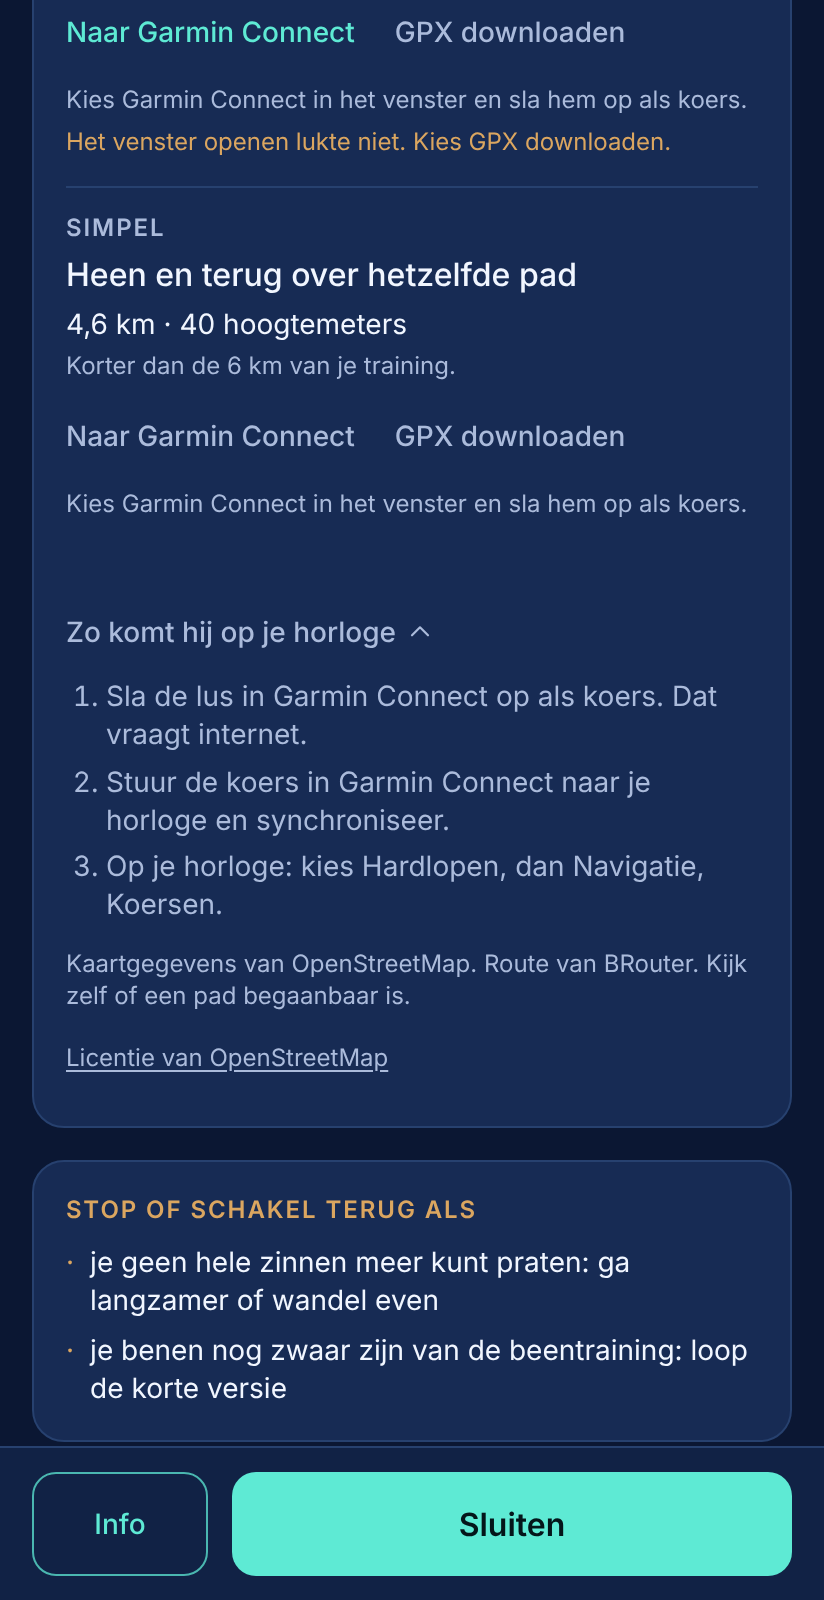
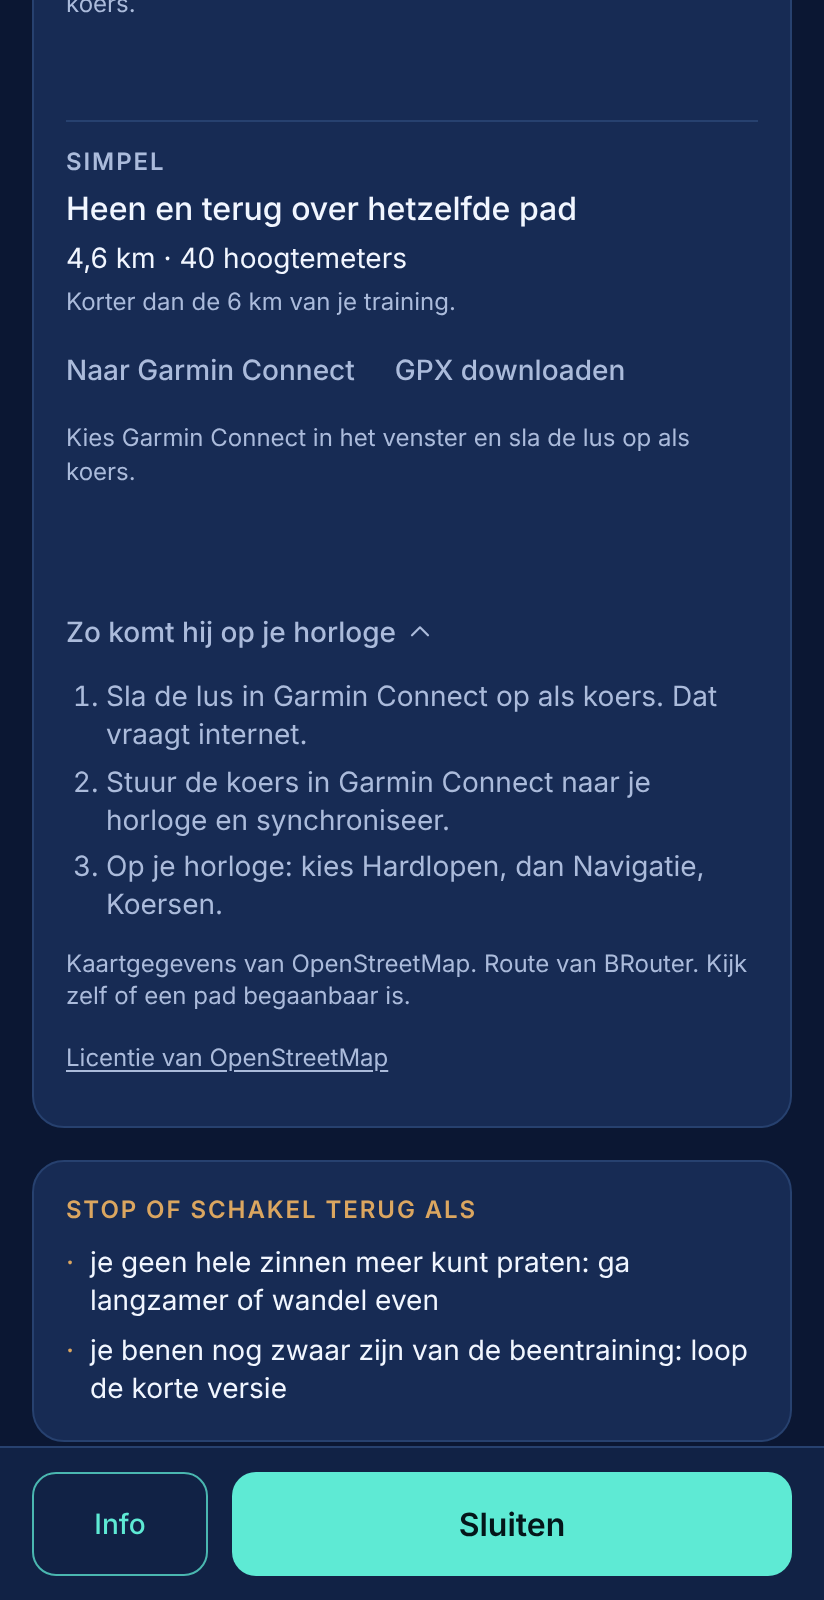
Naar Garmin Connect: afdrukken (412 px) en kostenlogboek
Claude-Session: https://claude.ai/code/session_01LnDpSjVK9hSe1mHL4RF8RK

diff --git a/.claude/kosten/logboek.md b/.claude/kosten/logboek.md
@@ -274,3 +274,7 @@ Les F3 en F4a: zet in de opdracht dat een nieuwe variant in een bestaande famili
 - 2026-11-09, Teksten Lichaam en Instellingen doorloop 360, 390 en 412 px, Lookout, sonnet (tester), 99k, 19 min, hervat na de limiet, 0, alles groen; maakte zelf een afgeleide stand voor het blad Hoe voelt je lijf
 - 2026-11-09, Teksten Lichaam en Instellingen tweede review (herstel, lijst altijd open, Akkoord-zin), Warden, fable (reviewer), 205k samen met de eerste ronde, 1 min, 0 blokkerend, akkoord; 6 klein (4 hersteld, 2 voor een volgende ronde)
 - 2026-11-09, Teksten Lichaam en Instellingen tweede meting 360 en 412 px, Lookout, sonnet (tester), 111k samen met de eerste ronde, 3 min, 0, alles groen; hergebruikte eigen scripts en stand
+- 2026-11-10, Routeplanner naar Garmin Connect (fase 3, bouwer in een eigen sessie), bouwer, fable, tokens niet door de sessie zelf te meten, ongeveer 40 min, 1 herstelronde na review zelf gedaan
+- 2026-11-10, Routeplanner naar Garmin Connect onderzoek (deelvenster of Openen met, plugins, webweergave), Scout, fable (sportwetenschapper), 47k, 2,5 min, 0, advies Openen met; bepaalde de keuze voor een eigen native deel
+- 2026-11-10, Routeplanner naar Garmin Connect review, Warden, fable (reviewer), 80k, 3 min, 0 blokkerend, 3 geel (grens stopte het openen niet, verkeerde stap bij time-out, uitweg te zwak; alle hersteld), 8 klein (6 hersteld)
+- 2026-11-10, Routeplanner naar Garmin Connect doorloop 360, 390 en 412 px, Lookout, sonnet (tester), 81k samen met de herhaling, 9 min, 1 herstel (statusregel van twee regels verschoof 15 px; hersteld en opnieuw gemeten, groen); mockte zelf BRouter en Overpass
